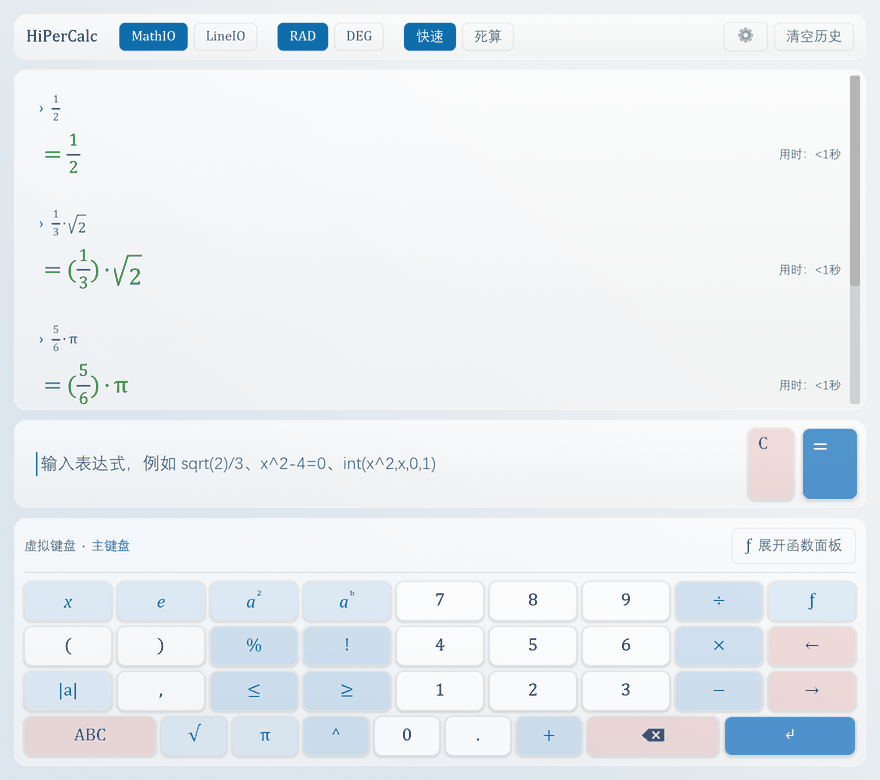
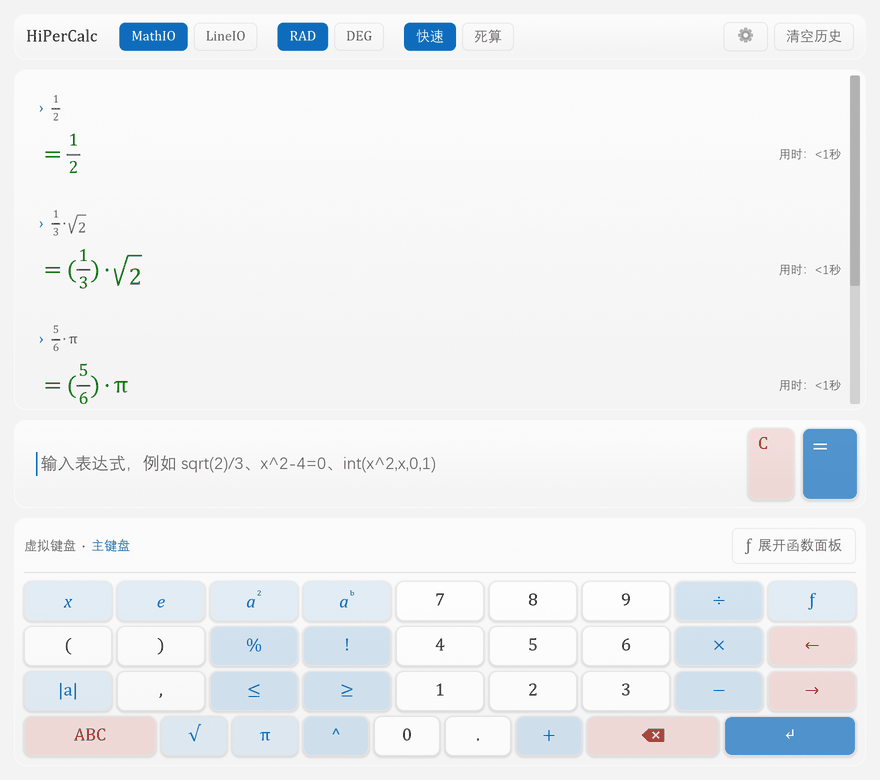
feat(gui): 窗口背景边缘加高光（与虚拟键盘按键同一套观感）+ README 换用 GUI 产品图
- refraction.rs：背景层（=最外圈那块玻璃）的四条边补上"朝阳侧细亮线 + 背光侧压暗"，
  光源方向与 liquid.rs 的 ldir 完全一致，窗口边界不再是"被切掉的"
- README：docs/gui-dark.png / gui-light.png 换成离屏生成的产品图
  （深色=玻璃质感、浅色=界面本体；浅色+玻璃+亮背景会把文字冲灰，故浅色不带背景）
- 新增 #[ignore] 测试 readme_shots：合成"壁纸感"背景（渐变+光斑+虚化窗口）渲染产品图，
  避免把真实桌面内容带进开源仓库；中间产物 /*-wgpu.png 已进 .gitignore
- 玻璃快照 4 张随着色器改动重生

diff --git a/crates/hipercalc-gui/tests/snapshot.rs b/crates/hipercalc-gui/tests/snapshot.rs
@@ -497,3 +497,125 @@ fn keypad_is_clickable_through_simulator() {
         "键盘输入 `1÷2` 的结果应含 `1 / 2` 或 `0.5`，实际：{out}"
     );
 }
+
+// ─────────────────────────────────────────────────────────────────────────
+// README 素材（不是回归基线）
+// ─────────────────────────────────────────────────────────────────────────
+
+/// 合成一张"模糊壁纸感"的桌面背景。
+///
+/// 为什么不用真机截图：`允许被截图 = 关` 时窗口**根本拍不到**（`WDA_EXCLUDEFROMCAPTURE`），
+/// 开着拍又会把自己的桌面内容（别人的窗口、聊天记录）带进开源仓库 —— 不合适。
+///
+/// 这里造的是：竖向渐变（深靛 → 暖紫）+ 三个大光斑（蓝绿 / 品红 / 琥珀）
+/// + 两块"虚化窗口"矩形。**没有真实内容**，但足够让折射、色散、边缘高光都有东西可看。
+fn desktop_like(w: u32, h: u32) -> Vec<u8> {
+    fn lerp(a: f32, b: f32, t: f32) -> f32 {
+        a + (b - a) * t
+    }
+    let mut out = vec![0u8; (w * h * 4) as usize];
+    // 光斑：(中心x, 中心y, 半径, 颜色)
+    let blobs = [
+        (0.20f32, 0.26f32, 0.46f32, [64.0f32, 148.0, 206.0]),
+        (0.80, 0.30, 0.38, [188.0, 78.0, 142.0]),
+        (0.56, 0.88, 0.44, [224.0, 152.0, 62.0]),
+    ];
+    // "虚化窗口"：给折射一点结构（矩形硬边会被模糊 + 折射变成柔和的直边）
+    let rects = [
+        (0.06f32, 0.10f32, 0.42f32, 0.44f32, 12.0f32),
+        (0.58, 0.56, 0.80, 0.90, -10.0),
+    ];
+    for y in 0..h {
+        let fy = y as f32 / h as f32;
+        for x in 0..w {
+            let fx = x as f32 / w as f32;
+            let mut c = [
+                lerp(17.0, 46.0, fy),
+                lerp(24.0, 30.0, fy),
+                lerp(52.0, 66.0, fy),
+            ];
+            for (cx, cy, r, col) in blobs {
+                let d = (((fx - cx).powi(2) + (fy - cy).powi(2)).sqrt()) / r;
+                let wgt = (1.0 - d).max(0.0).powf(2.2) * 0.62;
+                for k in 0..3 {
+                    c[k] += col[k] * wgt;
+                }
+            }
+            for (x0, y0, x1, y1, delta) in rects {
+                // 边缘 0.03 的软过渡，避免合成图自己带锯齿（那会污染玻璃的观感判断）
+                let inx = smooth(fx, x0, x0 + 0.03) * (1.0 - smooth(fx, x1 - 0.03, x1));
+                let iny = smooth(fy, y0, y0 + 0.03) * (1.0 - smooth(fy, y1 - 0.03, y1));
+                let m = inx * iny;
+                for k in 0..3 {
+                    c[k] += delta * m;
+                }
+            }
+            let i = ((y * w + x) * 4) as usize;
+            out[i] = c[0].clamp(0.0, 255.0) as u8;
+            out[i + 1] = c[1].clamp(0.0, 255.0) as u8;
+            out[i + 2] = c[2].clamp(0.0, 255.0) as u8;
+            out[i + 3] = 255;
+        }
+    }
+    out
+}
+
+/// 平滑阶跃（`smoothstep`）
+fn smooth(x: f32, a: f32, b: f32) -> f32 {
+    let t = ((x - a) / (b - a)).clamp(0.0, 1.0);
+    t * t * (3.0 - 2.0 * t)
+}
+
+/// 把界面渲染成 README 用的产品图，写到 `docs/`。
+///
+/// 两张图**各展示一半**：
+/// - 深色 = **玻璃质感**（能看出折射、色散、边缘高光）；
+/// - 浅色 = **界面本体**（质感关闭）—— 实测"浅色 + 玻璃 + 亮背景"会把深色文字
+///   冲成灰色（`tint_k` 只有 0.36，64% 的背景透上来），当产品图很难看，
+///   所以浅色这张刻意不带背景。
+///
+/// ⚠ **默认 `#[ignore]`**：它不是回归基线，是"生成素材"的工具。
+/// 重生成：
+///
+/// ```bash
+/// rm docs/gui-*.png
+/// cargo test -p hipercalc-gui --test snapshot -- --ignored readme_shots
+/// # ⚠ `Snapshot::matches_image` 会**自动加 `-wgpu` 后缀**，产物是
+/// # `docs/gui-dark-wgpu.png`；把它缩一半、量化 256 色后改名成 `gui-dark.png`
+/// ```
+///
+/// （`matches_image` 在**文件不存在时**才写盘，所以必须先删。）
+#[test]
+#[ignore = "生成 README 素材，不是回归基线"]
+fn readme_shots() {
+    let _guard = lock();
+    let (w, h) = (480u32, 360u32);
+    for (dark, path) in [
+        (true, "../../docs/gui-dark.png"),
+        (false, "../../docs/gui-light.png"),
+    ] {
+        let mut state = populated_state();
+        state.set_dark_for_test(dark);
+        if dark {
+            // ✅ 顺序不能反：先建 State 再切玻璃
+            let _ = state.update(Message::SetTexture(hipercalc_gui::theme::Texture::Glass));
+            // 产品图想要"看得出是玻璃、但内容还看得清"的模糊量
+            let _ = state.update(Message::SetGlassBlur(0.32));
+            let _ = state.update(Message::BgCaptured(Some(
+                hipercalc_gui::backdrop::Backdrop {
+                    x: 0,
+                    y: 0,
+                    width: w,
+                    height: h,
+                    rw: VIEWPORT.0 as u32,
+                    rh: VIEWPORT.1 as u32,
+                    rgba: desktop_like(w, h),
+                },
+            )));
+        }
+        let snapshot = snap(&state);
+        // 文件已存在时这里返回 false（不覆盖）—— 重生成前记得先删
+        let _ = snapshot.matches_image(path).expect("写 README 素材失败");
+    }
+    let _ = Message::SetGlassBlur(0.0);
+}

diff --git a/crates/hipercalc-gui/src/refraction.rs b/crates/hipercalc-gui/src/refraction.rs
@@ -252,7 +252,29 @@ fn fs(in: VOut) -> @location(0) vec4<f32> {
     var f = s * u.map.xy + u.map.zw + n * k;
     // 半径从"逻辑像素"折算成 uv：px → 窗口 uv（÷size）→ 图像 uv（×map.xy）
     let rad = u.blur * u.map.xy / u.size;
-    return vec4<f32>(sample_blur(f, rad, in.uv), 1.0);
+    var col = sample_blur(f, rad, in.uv);
+
+    // ── 边缘高光（与虚拟键盘按钮**同一套观感**）─────────────────────────
+    //
+    // 用户要求：背景（= 最外圈那块玻璃）的四条边也要有按钮那种边缘高光，
+    // 否则窗口边界看起来是"被切掉的"，跟里面的键不像同一种材质。
+    //
+    // 做法与 `liquid.rs` 保持同族：**朝阳侧一条亮边 + 背光侧压暗**，
+    // 只是这里的"边"是窗口四边（用轴向法线更稳，贴边时不会抖）。
+    let rim_w = max(5.0, 0.012 * min(u.size.x, u.size.y));
+    let t_rim = clamp(1.0 - dmin / rim_w, 0.0, 1.0);
+    // 最近那条边的外法线：哪一侧更近就用哪一侧（dx<dy ⇒ 左右边）
+    let sx = select(-1.0, 1.0, s.x > 0.5);
+    let sy = select(-1.0, 1.0, s.y > 0.5);
+    let nedge = select(vec2<f32>(0.0, sy), vec2<f32>(sx, 0.0), dx < dy);
+    // 光从左上来（与 `liquid.rs` 的 `ldir` 完全一致）
+    let ldir = normalize(vec2<f32>(-0.45, 0.75));
+    let ndl = clamp(dot(nedge, ldir), 0.0, 1.0);
+    // 细亮线：`pow(t_rim, 2.5)` 保证只有贴边那几像素亮，不会糊成一片
+    col = col + vec3<f32>(pow(ndl, 3.0) * pow(t_rim, 2.5) * 0.55);
+    // 背光侧压暗，读出"玻璃有厚度"（按键上同样有一条暗边）
+    col = col * (1.0 - 0.20 * t_rim * (1.0 - ndl));
+    return vec4<f32>(clamp(col, vec3<f32>(0.0), vec3<f32>(1.0)), 1.0);
 }
 "#;
 

diff --git a/AGENTS.md b/AGENTS.md
@@ -6,6 +6,11 @@
 
 **文档分工（用户明确要求）**：README 只放"简介 + 截图 + 特色 + 安装"，**手册内容一律进 `docs/DOC.zh-CN.md` / `DOC.en.md`**（27 章，第 27 章是图形界面）；`docs/liquid-glass-report.md` 玻璃算法笔记；`docs/windows7.md` Win7 兼容性调研。别再往 README 堆细节。
 
+README 的两张产品图（`docs/gui-dark.png` / `gui-light.png`）**不是真机截图**，是离屏渲染生成的：
+`cargo test -p hipercalc-gui --test snapshot -- --ignored readme_shots`。
+产物会被 `Snapshot::matches_image` 自动加 `-wgpu` 后缀，缩一半 + 量化 256 色后改名才是进仓库的那两张
+（中间产物已在 .gitignore 里）。浅色那张刻意**不开质感** —— 浅色 + 玻璃 + 亮背景会把文字冲成灰的。
+
 ## 硬性要求（用户指定）
 
 - 思考过程与代码注释一律用中文，注释不要用英文。
